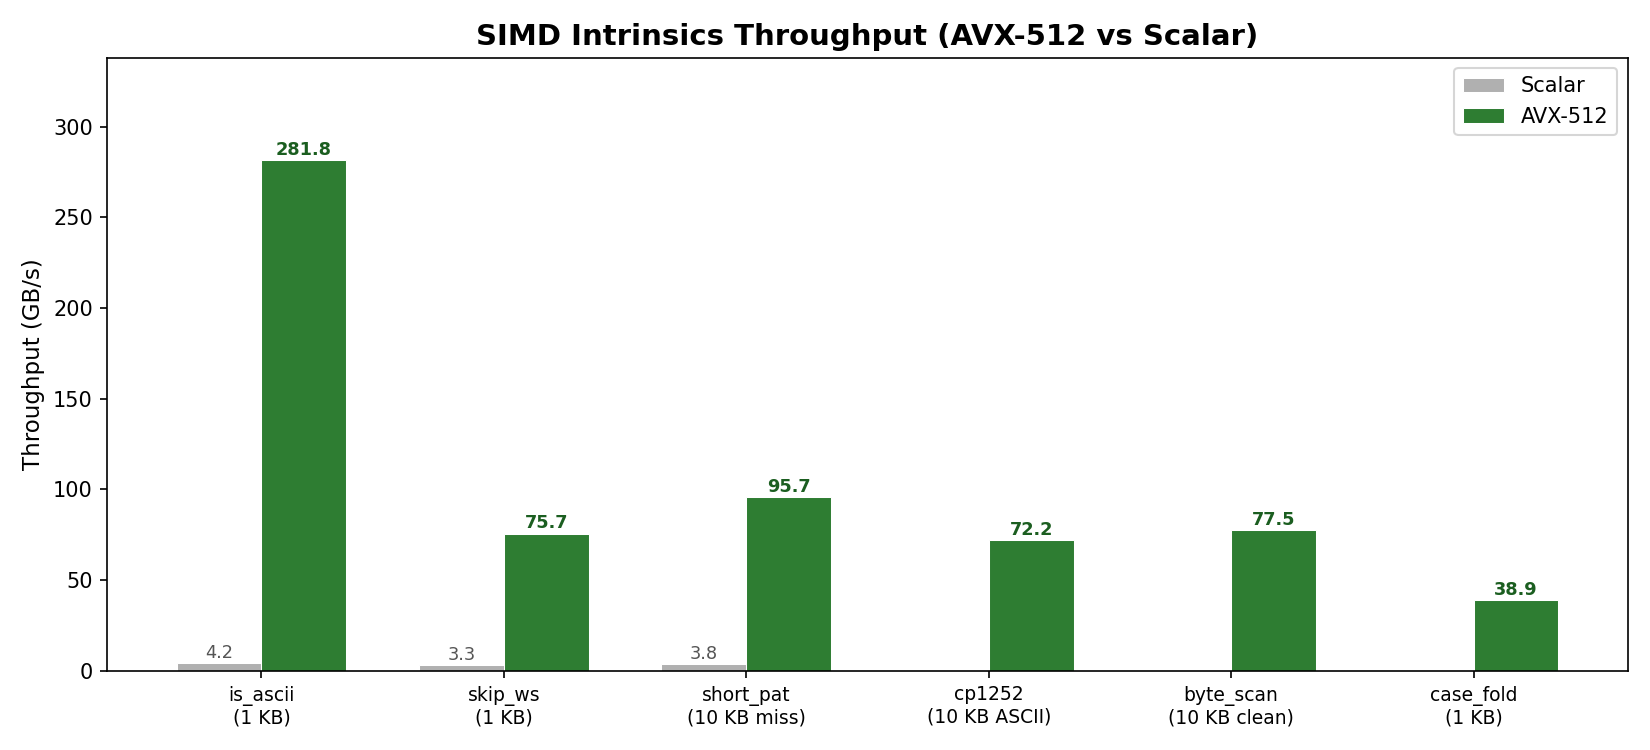
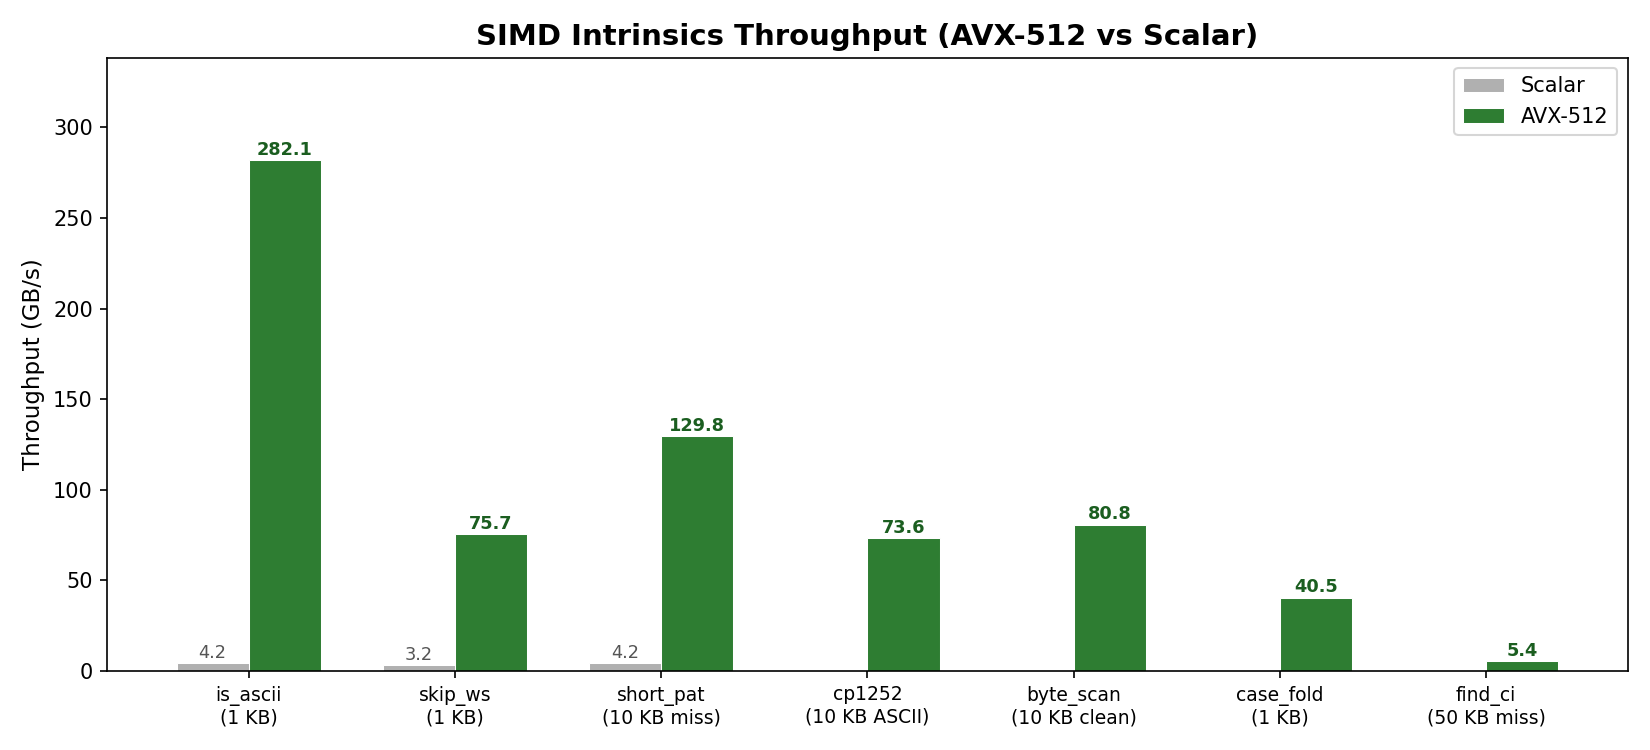
docs: update benchmark plots and README with post-optimization numbers
short_pattern throughput improved from 96 to 130 GB/s (+35%) from the
find_ci SIMD fast-path. Added find_ci (case-insensitive substring search)
to the intrinsics table. Updated line count to ~57K.

diff --git a/scripts/generate_plots.py b/scripts/generate_plots.py
@@ -130,6 +130,7 @@ def plot_intrinsics():
         ("cp1252\n(10 KB ASCII)",     10000, None,                           "cp1252_decode_10k_ascii"),
         ("byte_scan\n(10 KB clean)",  10000, None,                           "byte_scan_clean_10k"),
         ("case_fold\n(1 KB)",         1024,  None,                           "case_fold_eq_1k"),
+        ("find_ci\n(50 KB miss)",     50000, None,                           "find_ci_missing_in_50k_html"),
     ]
 
     labels, scalar_tp, simd_tp = [], [], []

diff --git a/README.md b/README.md
@@ -37,11 +37,12 @@ All text-processing hot paths use hand-tuned AVX-512/AVX2/SSE2/NEON intrinsics w
 | Intrinsic | Throughput | Scalar Baseline | Speedup |
 |---|---:|---:|---:|
 | `is_ascii` (1 KB) | 282 GB/s | 4.2 GB/s | **67x** |
-| `short_pattern` (10 KB) | 96 GB/s | 3.8 GB/s | **25x** |
-| `skip_whitespace` (1 KB) | 76 GB/s | 3.3 GB/s | **23x** |
-| `byte_scan` (10 KB) | 78 GB/s | -- | -- |
-| `cp1252_decode` (10 KB) | 72 GB/s | -- | -- |
-| `case_fold` (1 KB) | 39 GB/s | -- | -- |
+| `short_pattern` (10 KB) | 130 GB/s | 4.2 GB/s | **31x** |
+| `skip_whitespace` (1 KB) | 76 GB/s | 3.2 GB/s | **23x** |
+| `byte_scan` (10 KB) | 81 GB/s | -- | -- |
+| `cp1252_decode` (10 KB) | 74 GB/s | -- | -- |
+| `case_fold` (1 KB) | 40 GB/s | -- | -- |
+| `find_ci` (50 KB) | 5.4 GB/s | -- | -- |
 
 ## Supported Formats
 
@@ -219,7 +220,7 @@ src/
 └── lib.rs           Public API re-exports
 ```
 
-~51,000 lines of Rust across the library, tests, and benchmarks.
+~57,000 lines of Rust across the library, tests, and benchmarks.
 
 Key design principles:
 
